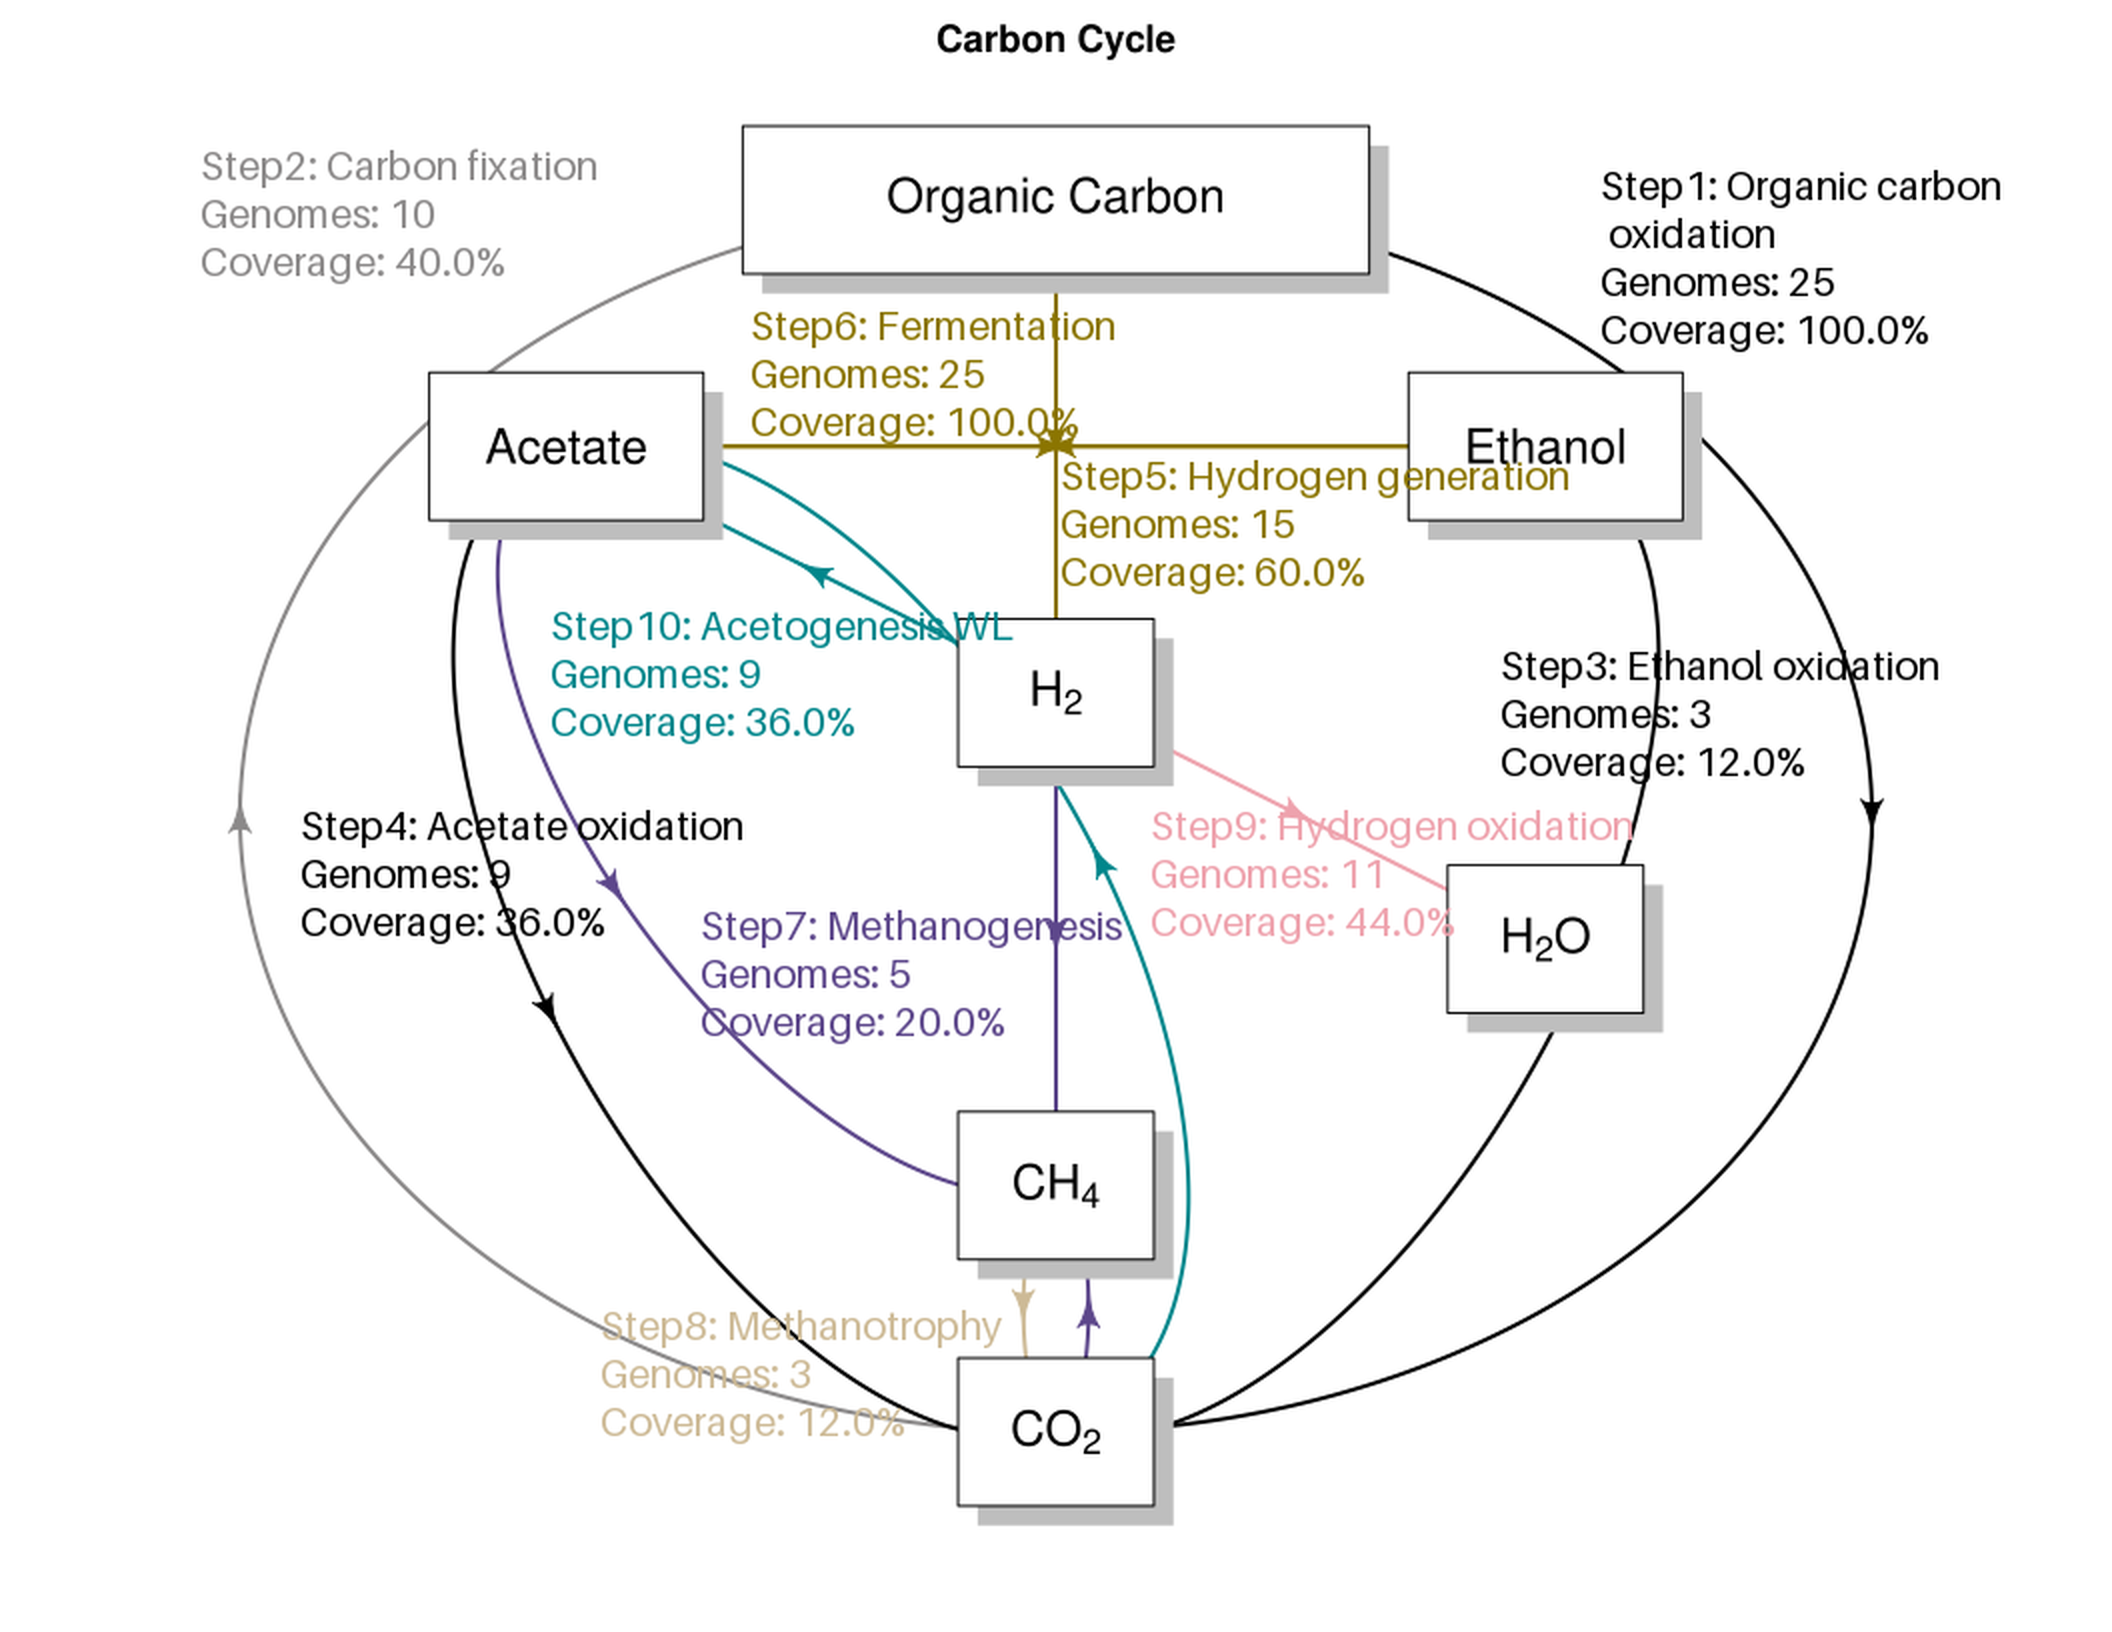
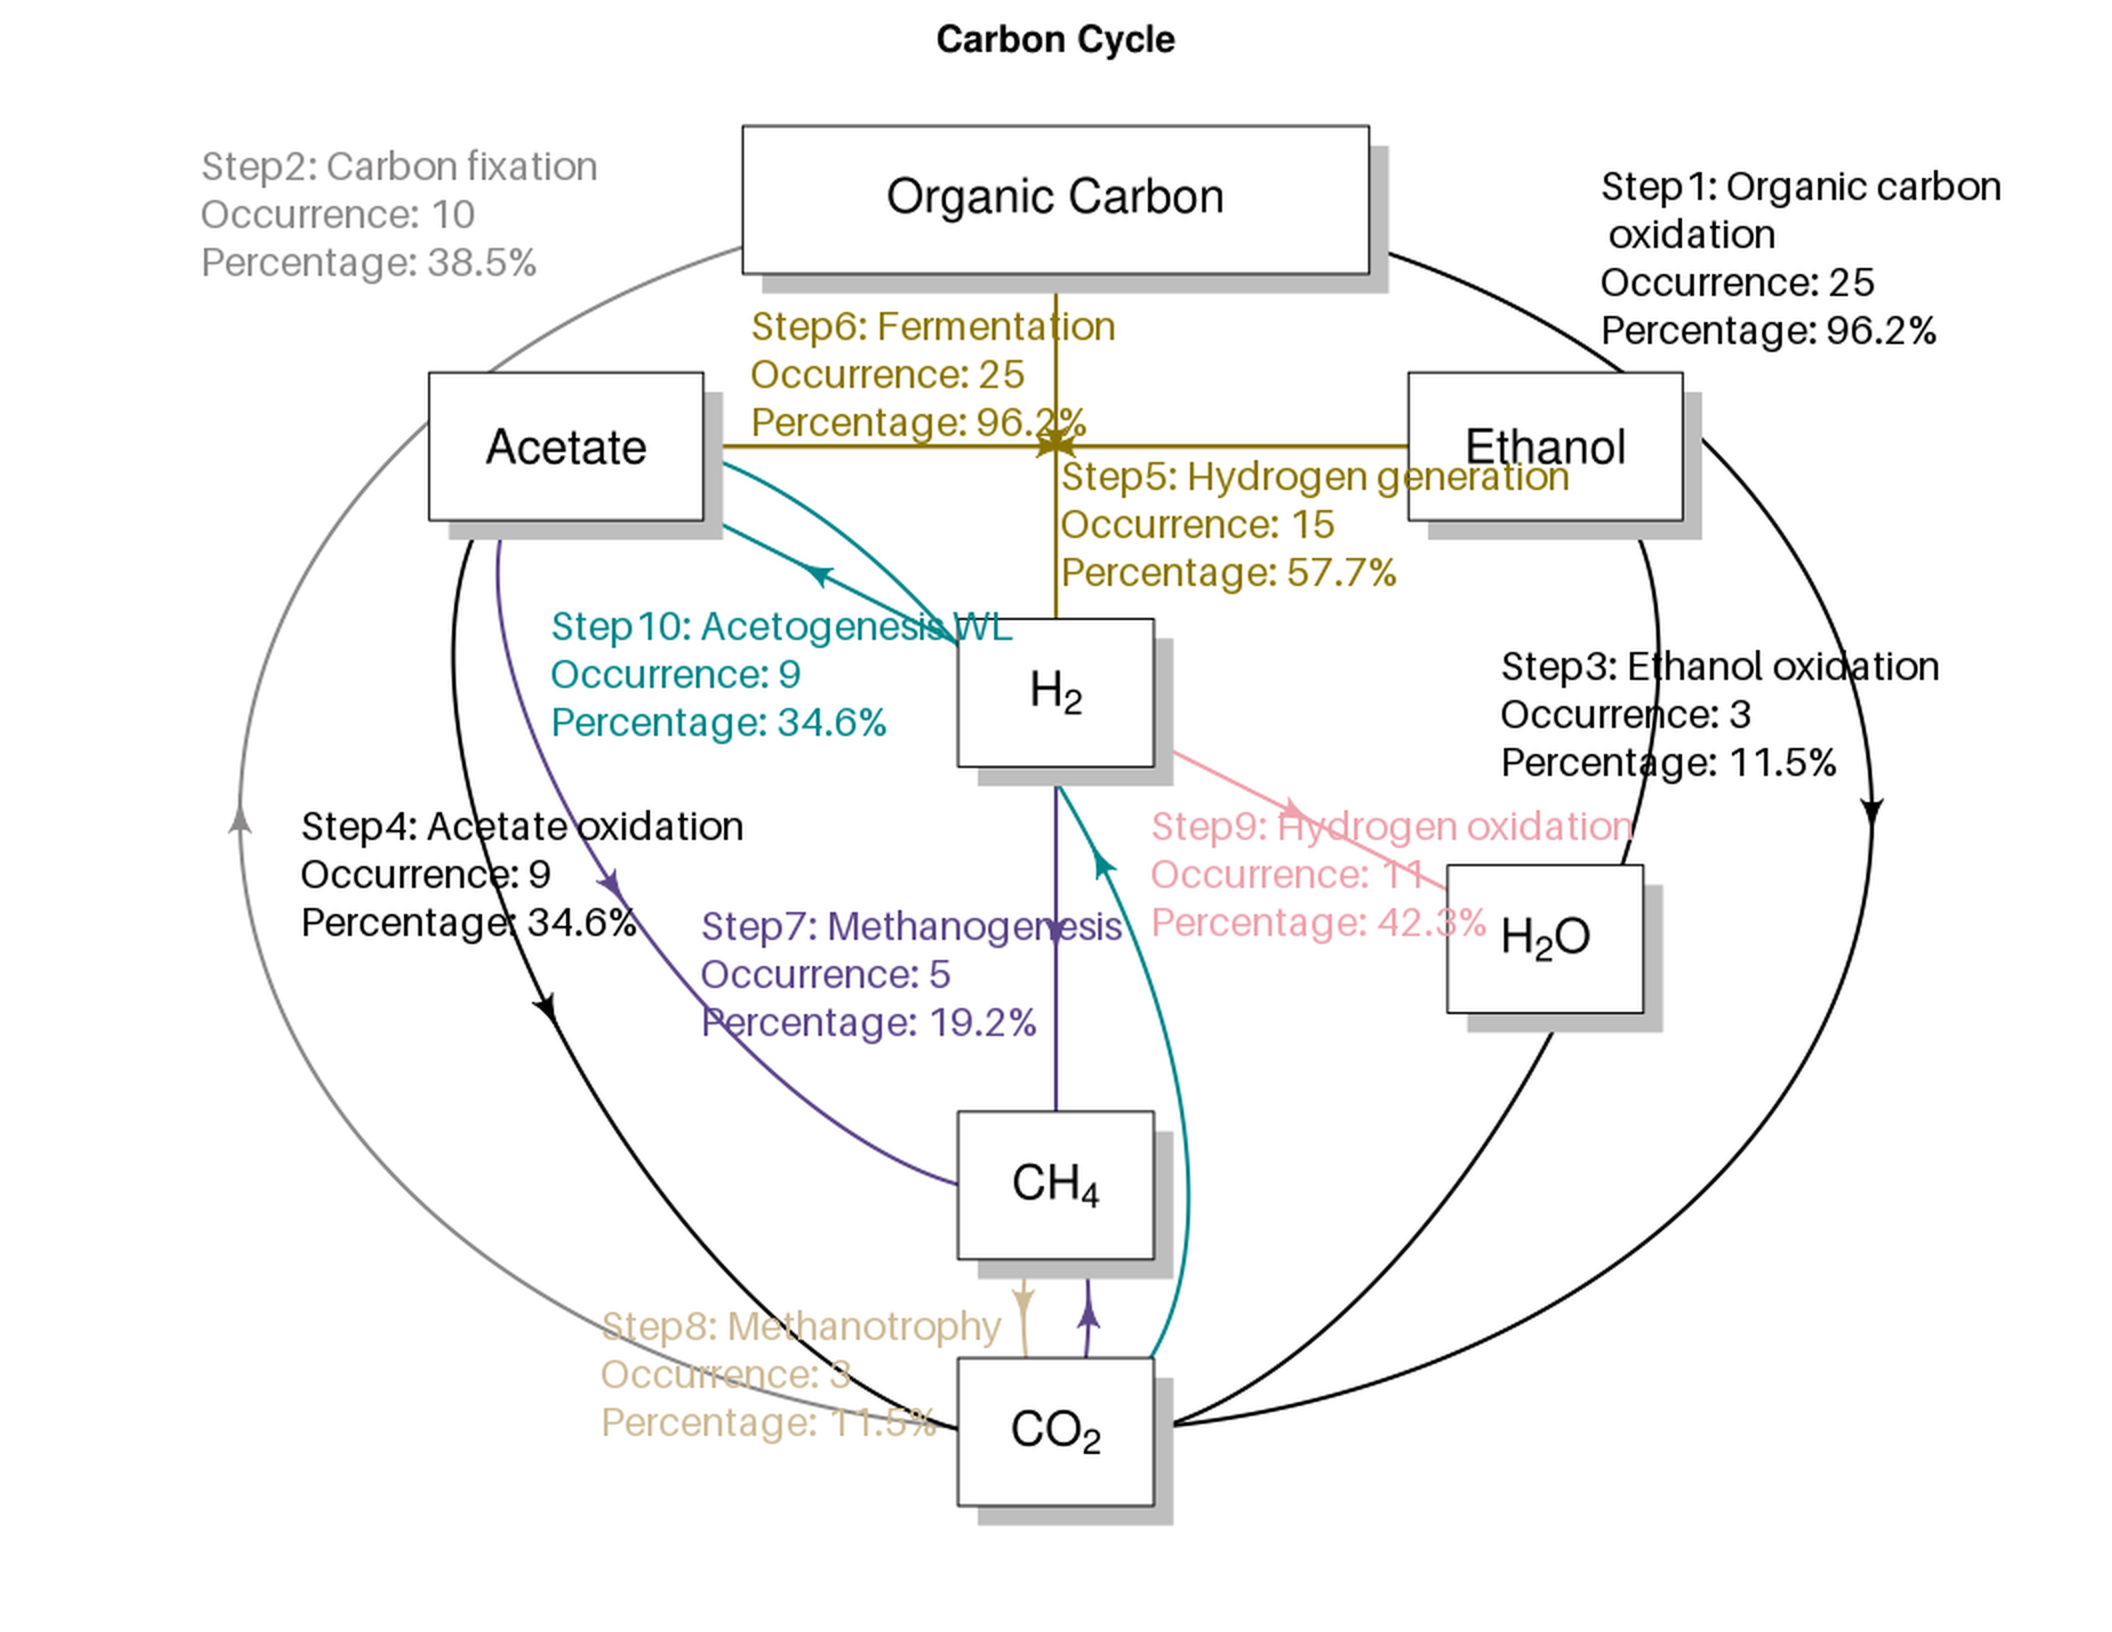
Update tutorials.

diff --git a/tutorials/README.md b/tutorials/README.md
@@ -83,9 +83,7 @@ There are cycle diagrams showing the occurrence of the functions in all the comm
 
 ![](pictures/3_diagram_carbon_cycle.png)
 
-*Genomes* corresponds to the number of taxa from EsMeCaTa predicted to have the functions and *Coverage* corresponds to the percentage of these taxa among all the communities.
-
-
+*Occurence* corresponds to the number of taxa from EsMeCaTa predicted to have the functions and *Percentage* corresponds to the percentage of these taxa among all the communities. If an abundance file is given as input, the percentage is computed according to all organisms present (as row) in the abundance file. Otherwise, the percentage is computed according to the number of organisms processed by bigecyhmm (or EsMeCaTa if an esmecata output folder was given as input).
 
 You can traceback how predictions were made through Tabigecy output files.
 
@@ -232,7 +230,7 @@ sample 3 = 2300 + 488 + 20 + 600 + 380 + 1878 + 75 = 5741
 | C-S-03:Ethanol oxidation        | 0.13     |  0.2     |  0.59      |
 
 
-These different values can be seen in the diagram figures located at `output_folder/output_3_visualisation/function_abundance/cycle_diagrams_abundance/*_cycle_*.png`:
+These different values can be seen in the diagram figures located at `output_folder/output_3_visualisation/function_abundance/cycle_diagrams_abundance/*_cycle_*.png`, for example with *Sample 1*:
 
 ![](pictures/4_S1_carbon_cycle.png)
 
